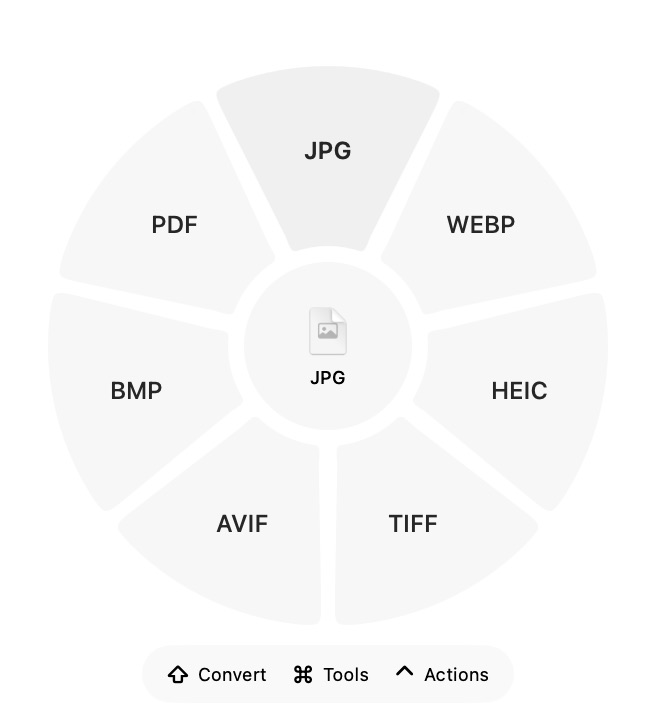
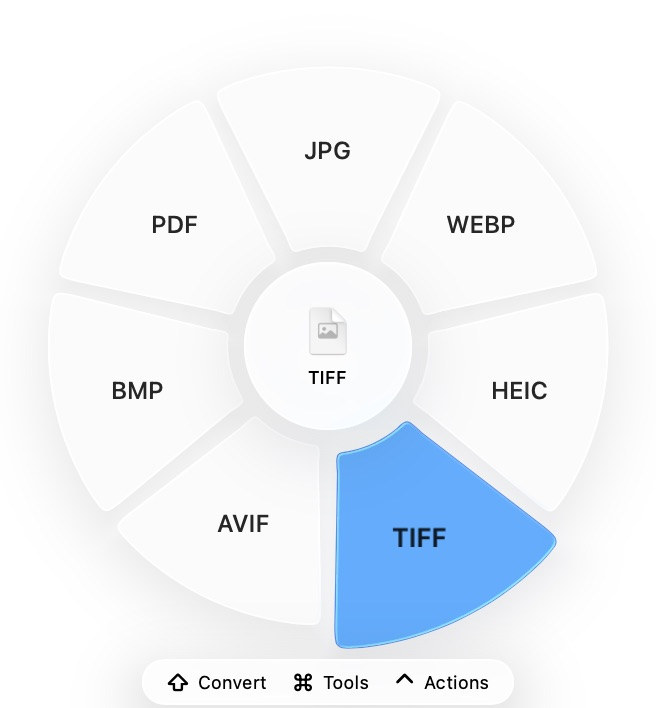
fix: quiet conversions and animate wheel selection

diff --git a/Sources/Turnstone/WheelAppearance.swift b/Sources/Turnstone/WheelAppearance.swift
@@ -9,6 +9,26 @@ struct WheelPetalAppearance: Identifiable {
     let position: CGPoint
 }
 
+enum WheelEmphasis {
+    static let scale: CGFloat = 1.08
+    static let lift: CGFloat = 8
+
+    static func offset(at anchor: CGPoint, from center: CGPoint) -> CGSize {
+        let dx = anchor.x - center.x, dy = anchor.y - center.y
+        let distance = hypot(dx, dy)
+        guard distance > 0 else { return .zero }
+        return CGSize(width: dx / distance * lift, height: dy / distance * lift)
+    }
+
+    static func transform(at anchor: CGPoint, from center: CGPoint, amount: CGFloat = 1) -> CGAffineTransform {
+        let offset = offset(at: anchor, from: center)
+        let scale = 1 + (scale - 1) * amount
+        return CGAffineTransform(translationX: anchor.x + offset.width * amount, y: anchor.y + offset.height * amount)
+            .scaledBy(x: scale, y: scale)
+            .translatedBy(x: -anchor.x, y: -anchor.y)
+    }
+}
+
 struct WheelAppearance: View {
     let petals: [WheelPetalAppearance]
     let selected: Int?
@@ -28,12 +48,12 @@ struct WheelAppearance: View {
                 shortcut(WheelMode.tools, "Tools")
                 shortcut(WheelMode.actions, "Actions")
             }
-            .padding(.horizontal, 12).padding(.vertical, 7)
+            .padding(.horizontal, 12).padding(.vertical, 4)
             .modifier(WheelGlass(shape: Capsule(), selected: false))
-            .fixedSize().position(x: center.x, y: 337)
+            .fixedSize().position(x: center.x, y: 341)
         }
         .frame(width: 328, height: 354)
-        .animation(reduceMotion ? nil : .easeInOut(duration: 0.14), value: selected)
+        .animation(reduceMotion ? nil : .spring(response: 0.26, dampingFraction: 0.72), value: selected)
         .allowsHitTesting(false)
         .accessibilityHidden(true)
     }
@@ -48,13 +68,24 @@ struct WheelAppearance: View {
             .modifier(WheelGlass(shape: RoundedRectangle(cornerRadius: 26), selected: false))
             .position(center)
         } else {
-            ForEach(petals) { petal in
-                Color.clear
-                    .frame(width: 328, height: 354)
-                    .modifier(WheelGlass(shape: PetalShape(path: petal.path), selected: selected == petal.id))
+            ZStack {
+                ForEach(petals) { petal in
+                    let active = selected == petal.id
+                    let lifted = active && !reduceMotion
+                    // Animating the path keeps native glass, its outline, and hit testing aligned.
+                    let shape = PetalShape(path: petal.path, anchor: petal.position, center: center, emphasis: lifted ? 1 : 0)
+                    Color.clear
+                        .frame(width: 328, height: 354)
+                        .modifier(WheelGlass(shape: shape, selected: active))
+                        .overlay(shape.stroke(Color.accentColor.opacity(active ? 0.85 : 0), lineWidth: 1.2))
+                        .shadow(color: Color.accentColor.opacity(active ? 0.20 : 0), radius: 8, y: 3)
+                        .zIndex(active ? 1 : 0)
+                }
             }
             // Keep labels above every glass surface so neighboring petals cannot refract them.
             ForEach(petals) { petal in
+                let lifted = selected == petal.id && !reduceMotion
+                let offset = lifted ? WheelEmphasis.offset(at: petal.position, from: center) : .zero
                 VStack(spacing: 5) {
                     if let symbol = petal.symbol {
                         Image(systemName: symbol).font(.system(size: 17, weight: .regular))
@@ -65,7 +96,9 @@ struct WheelAppearance: View {
                 }
                 .foregroundStyle(.primary)
                 .frame(width: petals.count > 7 ? 64 : 78)
+                .scaleEffect(lifted ? WheelEmphasis.scale : 1)
                 .position(petal.position)
+                .offset(offset)
             }
             VStack(spacing: 4) {
                 if let icon { Image(nsImage: icon).resizable().scaledToFit().frame(width: 27, height: 27) }
@@ -88,7 +121,16 @@ struct WheelAppearance: View {
 
 private struct PetalShape: Shape {
     let path: Path
-    func path(in rect: CGRect) -> Path { path }
+    let anchor: CGPoint
+    let center: CGPoint
+    var emphasis: CGFloat
+    var animatableData: CGFloat {
+        get { emphasis }
+        set { emphasis = newValue }
+    }
+    func path(in rect: CGRect) -> Path {
+        path.applying(WheelEmphasis.transform(at: anchor, from: center, amount: emphasis))
+    }
 }
 
 private struct WheelGlass<S: Shape>: ViewModifier {
@@ -102,15 +144,15 @@ private struct WheelGlass<S: Shape>: ViewModifier {
             content.background {
                 ZStack {
                     shape.fill(Color(nsColor: .windowBackgroundColor))
-                    if selected { shape.fill(Color.accentColor.opacity(0.20)) }
+                    if selected { shape.fill(Color.accentColor.opacity(0.35)) }
                 }
             }
             .overlay(shape.stroke(Color.primary.opacity(contrast == .increased ? 0.45 : 0.12), lineWidth: contrast == .increased ? 1 : 0.5))
         } else if #available(macOS 26, *) {
-            content.glassEffect(.regular.tint(selected ? Color.accentColor.opacity(0.25) : nil), in: shape)
+            content.glassEffect(.regular.tint(selected ? Color.accentColor.opacity(0.60) : nil), in: shape)
         } else {
             content.background(.ultraThinMaterial, in: shape)
-                .background(selected ? Color.accentColor.opacity(0.22) : .clear, in: shape)
+                .overlay(shape.fill(selected ? Color.accentColor.opacity(0.30) : .clear))
                 .overlay(shape.stroke(Color.primary.opacity(contrast == .increased ? 0.45 : 0.10), lineWidth: 0.5))
         }
     }

diff --git a/Tests/TurnstoneAppTests/InteractionTests.swift b/Tests/TurnstoneAppTests/InteractionTests.swift
@@ -1,0 +1,49 @@
+import AppKit
+import Combine
+import XCTest
+import TurnstoneCore
+@testable import Turnstone
+
+final class InteractionTests: XCTestCase {
+    @MainActor
+    func testSubmittingConversionDoesNotOpenRecentJobs() async throws {
+        _ = NSApplication.shared
+        let directory = FileManager.default.temporaryDirectory.appendingPathComponent(UUID().uuidString)
+        try FileManager.default.createDirectory(at: directory, withIntermediateDirectories: true)
+        defer { try? FileManager.default.removeItem(at: directory); Windows.close("jobs") }
+        let source = directory.appendingPathComponent("sample.png")
+        let bitmap = NSBitmapImageRep(bitmapDataPlanes: nil, pixelsWide: 8, pixelsHigh: 8, bitsPerSample: 8, samplesPerPixel: 4, hasAlpha: true, isPlanar: false, colorSpaceName: .deviceRGB, bytesPerRow: 0, bitsPerPixel: 0)!
+        try XCTUnwrap(bitmap.representation(using: .png, properties: [:])).write(to: source)
+
+        let model = AppModel()
+        model.submit(JobRequest(files: [source], operation: .convert("jpg")))
+        let job = try XCTUnwrap(model.jobs.first)
+        let completed = expectation(description: "Conversion finishes")
+        let observation = job.$finished.filter { $0 }.prefix(1).sink { _ in completed.fulfill() }
+        defer { observation.cancel() }
+        await fulfillment(of: [completed], timeout: 10)
+
+        XCTAssertTrue(job.errors.isEmpty, "\(job.errors)")
+        XCTAssertEqual(job.outputs.count, 1)
+        XCTAssertFalse(NSApp.windows.contains { $0.title == "Conversion Jobs" && $0.isVisible })
+        XCTAssertTrue(FileManager.default.fileExists(atPath: source.path))
+    }
+
+    @MainActor
+    func testHighlightedPetalKeepsItsPoppedOutEdgeSelectable() {
+        let canvas = WheelCanvas(frame: NSRect(x: 0, y: 0, width: 328, height: 354))
+        canvas.entries = ["jpg", "png", "webp", "pdf"].map(WheelEntry.format)
+        for index in 0..<4 {
+            canvas.selected = index
+            let angle = Double(90 - index * 90) * .pi / 180
+            canvas.updateSelection(NSPoint(x: 164 + cos(angle) * 150, y: 181 + sin(angle) * 150))
+            XCTAssertEqual(canvas.selected, NSWorkspace.shared.accessibilityDisplayShouldReduceMotion ? nil : index)
+        }
+        canvas.updateSelection(NSPoint(x: 264, y: 181))
+        XCTAssertEqual(canvas.selected, 1)
+        canvas.updateSelection(NSPoint(x: 164, y: 181))
+        XCTAssertNil(canvas.selected)
+        canvas.updateSelection(NSPoint(x: 164, y: 331))
+        XCTAssertNil(canvas.selected, "An inactive slice must not acquire selection outside its normal target")
+    }
+}

diff --git a/Sources/Turnstone/WheelController.swift b/Sources/Turnstone/WheelController.swift
@@ -163,10 +163,20 @@ final class WheelCanvas: NSView {
     }
 
     func updateSelection(_ point: NSPoint) {
-        guard let index = WheelGeometry.selection(x: point.x - center.x, y: point.y - center.y, count: entries.count) else { selected = nil; return }
-        let angle = 90.0 - Double(index) * 360 / Double(entries.count)
-        let half = 180 / Double(entries.count)
-        selected = path(start: angle - half, end: angle + half).contains(point) ? index : nil
+        if let index = WheelGeometry.selection(x: point.x - center.x, y: point.y - center.y, count: entries.count) {
+            let angle = 90.0 - Double(index) * 360 / Double(entries.count)
+            let half = 180 / Double(entries.count)
+            if path(start: angle - half, end: angle + half).contains(point) { selected = index; return }
+        }
+        // The active petal keeps its enlarged edge as a drop target without moving its base target.
+        if !NSWorkspace.shared.accessibilityDisplayShouldReduceMotion,
+           let selected, entries.indices.contains(selected) {
+            let appearance = wheelAppearance
+            let petal = appearance.petals[selected]
+            let transform = WheelEmphasis.transform(at: petal.position, from: appearance.center)
+            if petal.path.applying(transform).contains(CGPoint(x: point.x, y: 354 - point.y)) { return }
+        }
+        selected = nil
     }
 
     override func updateTrackingAreas() {

diff --git a/Sources/Turnstone/AppModel.swift b/Sources/Turnstone/AppModel.swift
@@ -55,7 +55,6 @@ final class AppModel: ObservableObject {
         let job = ConversionJob(request: request)
         jobs.insert(job, at: 0)
         if jobs.count > 50 { jobs = Array(jobs.prefix(50)) + jobs.dropFirst(50).filter { !$0.finished } }
-        showJobs()
         job.start()
     }
 
@@ -157,9 +156,6 @@ final class ConversionJob: ObservableObject, Identifiable {
                 }
                 finished = true
                 message = cancelled ? "Cancelled" : errors.isEmpty ? "Finished" : "Finished with errors"
-                if !outputs.isEmpty && UserDefaults.standard.object(forKey: "revealResults") as? Bool != false {
-                    NSWorkspace.shared.activateFileViewerSelecting(outputs)
-                }
             }
         } catch { errors = [error.localizedDescription]; message = "Couldn’t start"; finished = true }
     }

diff --git a/Sources/Turnstone/UtilityViews.swift b/Sources/Turnstone/UtilityViews.swift
@@ -155,7 +155,6 @@ struct ShelfView: View {
 }
 
 struct SettingsView: View {
-    @AppStorage("revealResults") private var reveal = true
     @AppStorage("wheelSound") private var sound = false
     @AppStorage("terminalApp") private var terminal = "Terminal"
     @AppStorage("conversionKey") private var conversionKey = "shift"
@@ -168,7 +167,6 @@ struct SettingsView: View {
         TabView {
             Form {
                 Section("Workflow") {
-                    Toggle("Reveal finished files in Finder", isOn: $reveal)
                     Toggle("Play a sound when a wheel item is selected", isOn: $sound)
                     Toggle("Start Turnstone at login", isOn: $login).onChange(of: login) { enabled in
                         do { if enabled { try SMAppService.mainApp.register() } else { try SMAppService.mainApp.unregister() } }

diff --git a/Package.swift b/Package.swift
@@ -11,6 +11,7 @@ let package = Package(
     targets: [
         .target(name: "TurnstoneCore"),
         .executableTarget(name: "Turnstone", dependencies: ["TurnstoneCore"]),
-        .testTarget(name: "TurnstoneCoreTests", dependencies: ["TurnstoneCore"])
+        .testTarget(name: "TurnstoneCoreTests", dependencies: ["TurnstoneCore"]),
+        .testTarget(name: "TurnstoneAppTests", dependencies: ["Turnstone"])
     ]
 )

diff --git a/README.md b/README.md
@@ -44,12 +44,16 @@ Writing native `.pages` files additionally requires Apple Pages and its Automati
 4. Drop to apply the operation.
 
 The center, gaps between petals, and space outside the wheel do not select an operation.
+The active slice grows and lifts outward with a spring animation and an accent highlight.
+Its enlarged edge remains a valid drop target, and Reduce Motion keeps the highlight still.
 Choose Files from the menu or drop files into the welcome window for the keyboard workflow.
 Arrow keys select a petal, Return applies it, and Escape closes the wheel.
 The modifier shortcuts can be changed in Settings.
 
 Conversions and edits save new copies beside the originals, with numbered names on collisions.
-Jobs support cancellation, per-file errors, and revealing completed outputs in Finder.
+Conversions finish without opening windows or Finder.
+Open **Recent Jobs** from the menu to inspect progress, errors, or completed files, and use its folder button to reveal an output.
+Jobs support cancellation and per-file errors.
 The explicit **Move** action relocates originals after a destination picker and collision checks.
 No file is uploaded for conversion.
 Pages, LibreOffice, and other independently installed applications retain their own behavior and preferences.
@@ -61,7 +65,7 @@ Pages, LibreOffice, and other independently installed applications retain their 
 - All 26 researched tool categories, including photo adjustment, annotation, background styling, crops, collage, metadata, compression, trimming, normalization, channels, bleeping, redaction, splitting, joining, snapshots, audio visualization, and PDF organization.
 - AirDrop, a draggable floating shelf with edge pinning, clipboard file copy, Move, Copy Path, and Terminal or iTerm2.
 - Native previews, editable image regions, waveform and timeline controls, page thumbnails, and batch ordering.
-- Launch at login, custom modifier keys, optional selection sounds, and Finder reveal preferences.
+- Launch at login, custom modifier keys, optional selection sounds, and manual Finder reveal.
 
 Catalog entries describe supported routes; successful conversion also depends on the input and locally available engines.
 
